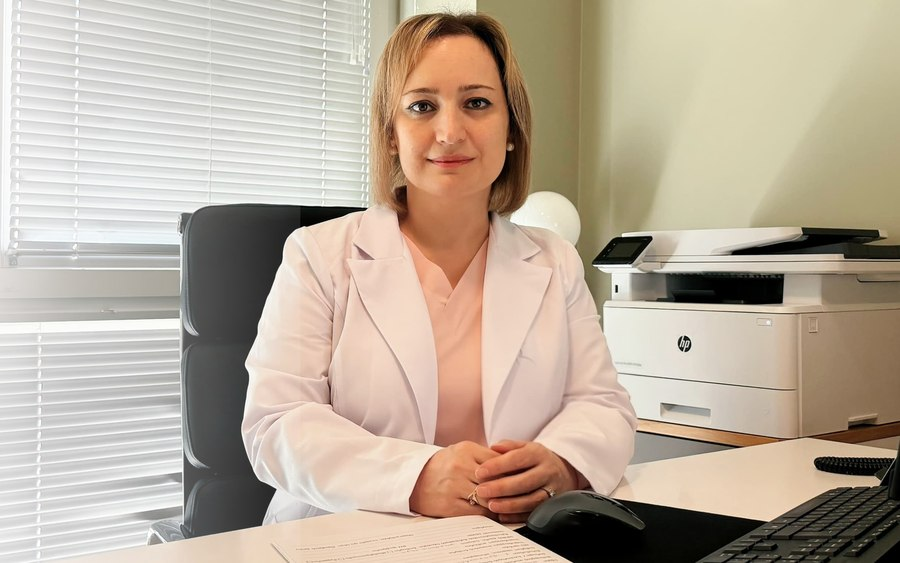
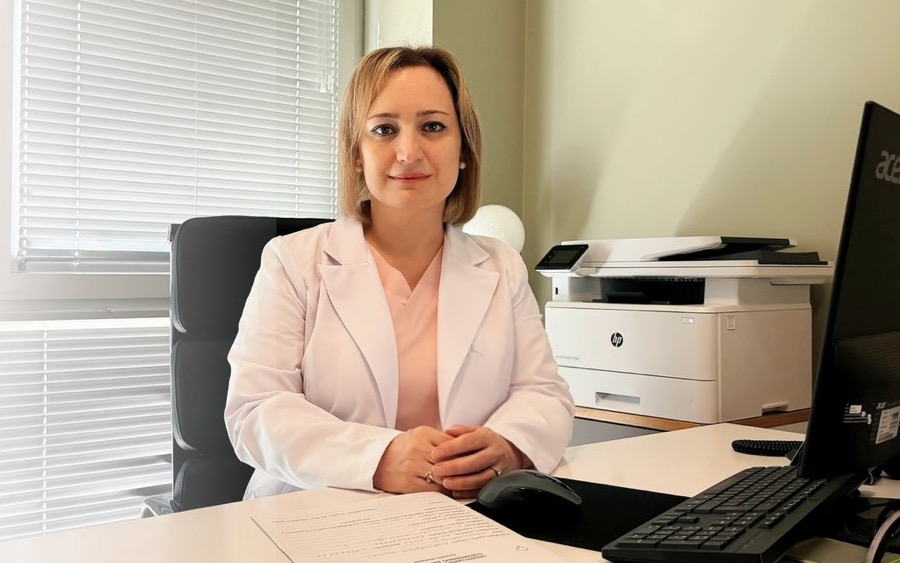
hello world

diff --git a/article-pcos.html b/article-pcos.html
@@ -26,7 +26,7 @@
 <link rel="preconnect" href="https://fonts.gstatic.com" crossorigin>
 <link href="https://fonts.googleapis.com/css2?family=Noto+Serif+Georgian:wght@400..700&family=Noto+Sans+Georgian:wght@400..700&display=swap" rel="stylesheet">
 
-<link rel="stylesheet" href="css/style.css?v=13">
+<link rel="stylesheet" href="css/style.css?v=16">
 <link rel="icon" type="image/jpeg" href="assets/img/logo-160.jpg">
 <link rel="apple-touch-icon" href="assets/img/logo-320.jpg">
 </head>
@@ -107,7 +107,7 @@
 
     <div class="post__byline">
       <span class="post__avatar" aria-hidden="true">
-        <img src="assets/img/art-pcos-avatar.jpg" width="200" height="200" alt="">
+        <img src="assets/img/president-avatar.jpg" width="320" height="320" alt="">
       </span>
       <div>
         <p class="post__author">პროფ. ელენე ასანიძე</p>
@@ -142,43 +142,44 @@
       </p>
 
       <p>
-        სპეციალისტები აღნიშნავენ, რომ პოლიცისტური საკვერცხის სინდრომის დიაგნოზი
-        მოზარდებში ერთ-ერთი ყველაზე რთული კლინიკური გამოწვევაა. ნაჩქარევმა
-        დიაგნოზმა შეიძლება გამოიწვიოს ჰიპერდიაგნოსტიკა და არასაჭირო მკურნალობა,
-        ხოლო დაგვიანებულმა შეფასებამ — სიმპტომებისა და მეტაბოლური რისკების
-        მართვის გადავადება.
+        სპეციალისტები აღნიშნავენ, რომ პოლიცისტური საკვერცხის სინდრომის
+        დიაგნოზი მოზარდებში ერთ-ერთი ყველაზე რთული კლინიკური გამოწვევაა.
+        ნაჩქარევმა დიაგნოზმა შეიძლება გამოიწვიოს ჰიპერდიაგნოსტიკა და არასაჭირო
+        მკურნალობა, ხოლო დაგვიანებულმა შეფასებამ — სიმპტომებისა და
+        მეტაბოლური რისკების მართვის გადავადება.
       </p>
 
       <p>
-        ამ მნიშვნელოვან თემაზე გვესაუბრება პროფესორი ელენე ასანიძე,
-        მედიცინის დოქტორი, ბავშვთა და მოზარდთა გინეკოლოგი, მეან-გინეკოლოგი.
+        ამ მნიშვნელოვან თემაზე გვესაუბრება პროფესორი ელენე ასანიძე, მედიცინის
+        დოქტორი, მეან-გინეკოლოგი, ბავშვთა და მოზარდთა გინეკოლოგი.
       </p>
 
-      <h2 class="post__q">ქალბატონო ელენე, 2026 წელს პოლიცისტური საკვერცხის სინდრომისთვის ახალი საერთაშორისო სახელწოდება გამოცხადდა. რას უკავშირდება ეს ცვლილება და რატომ გახდა ის საჭირო?</h2>
+      <h2 class="post__q">2026 წელს პოლიცისტური საკვერცხის სინდრომისთვის ახალი საერთაშორისო სახელწოდება — პოლიენდოკრინული მეტაბოლური საკვერცხეების სინდრომი იქნა შეთავაზებული. რას უკავშირდება ეს ცვლილება და რატომ გახდა ის საჭირო?</h2>
 
-      <p>პოლიცისტური საკვერცხის სინდრომი (პსს) მხოლოდ გინეკოლოგიური პათოლოგია არ არის. ის წარმოადგენს კომპლექსურ, მრავალსისტემურ ენდოკრინულ-მეტაბოლურ მდგომარეობას, რომელიც გავლენას ახდენს არა მხოლოდ რეპროდუქციულ, არამედ მეტაბოლურ, გულ-სისხლძარღვთა და ფსიქოემოციურ ჯანმრთელობაზეც. სწორედ ამიტომ, 2026 წელს საერთაშორისო ექსპერტთა კონსენსუსის საფუძველზე შემოთავაზებული იქნა ახალი სახელწოდება — პოლიენდოკრინულ-მეტაბოლური საკვერცხის სინდრომი (პმსს).</p>
+      <p>პოლიცისტური საკვერცხის სინდრომი (პსს) მხოლოდ გინეკოლოგიური პათოლოგია არ არის. ის წარმოადგენს კომპლექსურ, მრავალსისტემურ ენდოკრინულ-მეტაბოლურ მდგომარეობას, რომელიც გავლენას ახდენს არა მხოლოდ რეპროდუქციულ, არამედ მეტაბოლურ, გულ-სისხლძარღვთა და ფსიქოემოციურ ჯანმრთელობაზეც. სწორედ ამიტომ, 2026 წელს საერთაშორისო ექსპერტთა კონსენსუსის საფუძველზე შემოთავაზებული იქნა ახალი სახელწოდება — პოლიენდოკრინული მეტაბოლური საკვერცხის სინდრომი (პმსს).</p>
 
       <p>ახალი სახელწოდება უკეთ ასახავს ამ მდგომარეობის მრავალსისტემურ ბუნებას და ხაზს უსვამს, რომ მისი არსი მხოლოდ საკვერცხეების ცვლილებებით არ შემოიფარგლება. ძველი სახელწოდება ხშირად ქმნიდა შთაბეჭდილებას, თითქოს პრობლემა მხოლოდ საკვერცხეებში არსებულ „კისტებს“ უკავშირდებოდა, მაშინ როცა მდგომარეობა ჰორმონულ და მეტაბოლურ პროცესებს მოიცავს. ახალი ტერმინის დანერგვა ეტაპობრივად მოხდება და მისი სრული ინტეგრაცია 2028 წლის საერთაშორისო გაიდლაინის განახლებასთან არის დაკავშირებული; გარდამავალ პერიოდში კი ორივე ტერმინის გამოყენება შესაძლებელია.</p>
 
-      <h2 class="post__q">რატომ არის რთული ამ მდგომარეობის დიაგნოსტიკა განსაკუთრებით მოზარდებში?</h2>
+      <h2 class="post__q">რატომ არის მისი დიაგნოსტიკა განსაკუთრებით რთული მოზარდებში და რაში მდგომარეობს მთავარი კლინიკური სირთულე ამ ასაკობრივ ჯგუფში?</h2>
 
-      <p>მოზარდობის ასაკში პმსს-ის დიაგნოსტიკა განსაკუთრებულ სიფრთხილეს მოითხოვს, რადგან ხშირად რთულია პუბერტატის ფიზიოლოგიური ცვლილებებისა და პმსს-ის კლინიკური გამოვლინებების ერთმანეთისგან გამიჯვნა. არარეგულარული მენსტრუალური ციკლი, აკნე და ულტრაბგერითი (უბგ) კვლევით გამოვლენილი საკვერცხეების პოლიცისტური მორფოლოგია ხშირად სრულიად ნორმალური მოვლენაა მოზარდობის პერიოდში და თავისთავად პმსს-ის არსებობას არ ადასტურებს. სწორედ ამიტომ დიაგნოზი მხოლოდ მკაფიო კრიტერიუმებზე დაყრდნობით უნდა დაისვას.</p>
+      <p>მოზარდებში პსს-ის დიაგნოსტიკა განსხვავდება რეპროდუქციული ასაკის ქალებში დიაგნოსტიკისგან და განსაკუთრებულ სიფრთხილეს მოითხოვს. მთავარი კლინიკური სირთულე პუბერტატის ფიზიოლოგიური ცვლილებებისა და პსს-ის კლინიკური გამოვლინებების ერთმანეთისგან გამიჯვნაა.</p>
 
-      <h2 class="post__q">რა კრიტერიუმებით ისმება დღეს პსს-ის დიაგნოზი მოზარდებში?</h2>
+      <p>არარეგულარული მენსტრუალური ციკლი, აკნე და ულტრაბგერითი კვლევით გამოვლენილი საკვერცხეების პოლიცისტური მორფოლოგია მოზარდობის პერიოდში ხშირად ფიზიოლოგიური პუბერტატის გამოვლინებაა, თუმცა მსგავსი ნიშნები შესაძლოა პსს ახასიათებდეს. სწორედ ამიტომ არსებობს როგორც ჰიპერდიაგნოსტიკის, ისე დიაგნოზის დაგვიანების რისკი.</p>
+
+      <p>ამდენად, მოზარდებში პსს-ის დიაგნოზი უნდა ეფუძნებოდეს მკაფიო, ასაკის შესაბამის კრიტერიუმებს.</p>
+
+      <h2 class="post__q">რა კრიტერიუმებს უნდა დაეყრდნოს დღეს ექიმი მოზარდებში პსს-ის დიაგნოზის დასმისას და რომელი მდგომარეობების გამორიცხვაა აუცილებელი დიფერენციალური დიაგნოსტიკის პროცესში?</h2>
 
       <p>2023 წლის საერთაშორისო მტკიცებულებებზე დაფუძნებული რეკომენდაციების მიხედვით, მოზარდებში პსს-ის დიაგნოზი უნდა დაისვას მხოლოდ მაშინ, როდესაც ერთდროულად არსებობს ორი აუცილებელი კრიტერიუმი:</p>
 
-      <ul class='post__list'><li>მენსტრუალური ციკლის დარღვევა/ოვულატორული დისფუნქცია, რომელიც შეფასებულია გოგონას ასაკისა და მენარქიდან გასული დროის გათვალისწინებით;</li><li>კლინიკური და/ან ბიოქიმიური ჰიპერანდროგენიზმი.</li></ul>
+      <ul class="post__list">
+        <li>მენსტრუალური ციკლის დარღვევა/ოვულატორული დისფუნქცია, რომელიც შეფასებულია გოგონას ასაკისა და მენარქიდან გასული დროის გათვალისწინებით;</li>
+        <li>კლინიკური და/ან ბიოქიმიური ჰიპერანდროგენიზმი.</li>
+      </ul>
 
       <p>დიაგნოზის დასმამდე აუცილებელია გამოირიცხოს სხვა მდგომარეობები, რომლებიც შეიძლება იწვევდეს მენსტრუალური ციკლის დარღვევას ან ჰიპერანდროგენიზმს, მათ შორის ფარისებრი ჯირკვლის დარღვევები, ჰიპერპროლაქტინემია, თირკმელზედა ჯირკვლის არაკლასიკური თანდაყოლილი ჰიპერპლაზია, კუშინგის სინდრომი და ანდროგენების მაპროდუცირებელი სიმსივნეები.</p>
 
-      <h2 class="post__q">ხშირად მშობლებს აინტერესებთ, როდის ითვლება არარეგულარული მენსტრუალური ციკლი ნორმად და როდის საჭიროებს დამატებით შეფასებას მოზარდებში?</h2>
-
-      <p>ეს ერთ-ერთი ყველაზე გავრცელებული კითხვაა. მენარქის, ანუ პირველი მენსტრუაციის შემდეგ ჰორმონული რეგულაციის სისტემა ჯერ კიდევ ჩამოყალიბების პროცესშია. ამიტომ პირველ წლებში მენსტრუალური ციკლის არარეგულარულობა ხშირად ფიზიოლოგიურია და პუბერტატის პერიოდისთვის დამახასიათებელ მოვლენად ითვლება. მენარქიდან 1-3 წლის პერიოდში 21–45-დღიანი ინტერვალი, როგორც წესი, დასაშვებია, ხოლო 21 დღეზე ნაკლები ან 45 დღეზე მეტი ინტერვალი დამატებით შეფასებას საჭიროებს. მენარქიდან 3 წლის შემდეგ ციკლი, ჩვეულებრივ, 21–35 დღის ფარგლებში რეგულირდება, ამ პერიოდში 21 დღეზე ნაკლები ან 35 დღეზე მეტი ინტერვალი, ასევე წელიწადში 8-ზე ნაკლები ციკლი, საყურადღებოა. მენარქიდან ერთი წლის შემდეგ 90 დღეზე ხანგრძლივი ინტერვალი ნებისმიერ შემთხვევაში დამატებით შეფასებას მოითხოვს.</p>
-
-      <p>მოზარდობის პერიოდში რეპროდუქციული სისტემა ჯერ კიდევ მომწიფების პროცესშია, სწორედ ამიტომ ციკლის შეფასება ყოველთვის უნდა მოხდეს ასაკისა და მენარქიდან გასული დროის მიხედვით და არა მხოლოდ ზრდასრულთა კრიტერიუმებით.</p>
-
-      <h2 class="post__q">როგორ შეიძლება მშობელმა ან თავად მოზარდმა ეჭვი მიიტანოს ჰიპერანდროგენიზმზე?</h2>
+      <h2 class="post__q">ქალბატონო ელენე, თქვენ ჰიპერანდროგენიზმი ახსენეთ, როგორც ერთ-ერთი მნიშვნელოვანი დიაგნოსტიკური კრიტერიუმი. იქნებ განგვიმარტოთ, რას ნიშნავს ჰიპერანდროგენიზმი და რა კლინიკურ გამოვლინებებს უნდა მიაქციონ ყურადღება მშობელმა ან თავად მოზარდმა?</h2>
 
       <p>ჰიპერანდროგენიზმი არის მდგომარეობა, როდესაც გოგონას ან ქალის ორგანიზმში ანდროგენების, ე.წ. მამაკაცური ჰორმონების, გავლენა მომატებულია. ანდროგენები ქალის ორგანიზმშიც ბუნებრივად არსებობს, მაგრამ როცა მათი დონე ჭარბია, შეიძლება სხვადასხვა სიმპტომი გამოიწვიოს.</p>
 
@@ -186,41 +187,61 @@
 
       <p>ბიოქიმიური ჰიპერანდროგენიზმი გულისხმობს სისხლში ანდროგენების მომატებულ დონეს, რომელიც უნდა დადასტურდეს შესაბამისი ლაბორატორიული კვლევებით.</p>
 
-      <h2 class="post__q">ზრდასრულ ქალებში პსს-ის დიაგნოსტიკისას ულტრაბგერით გამოვლენილი საკვერცხეების პოლიცისტური მორფოლოგია ერთ-ერთ დიაგნოსტიკურ კრიტერიუმად განიხილება. აქვს თუ არა იგივე მნიშვნელობა ამ კვლევას მოზარდებში?</h2>
+      <h2 class="post__q">მშობლებს ხშირად აინტერესებთ, როდის შეიძლება არარეგულარული მენსტრუალური ციკლი მოზარდობისთვის ფიზიოლოგიურ მოვლენად ჩაითვალოს და როდის არის უკვე საჭირო დამატებითი შეფასება?</h2>
 
-      <p>რეპროდუქციული ასაკის ქალებისგან განსხვავებით, მოზარდებში უბგ კვლევით გამოვლენილი პოლიცისტური საკვერცხეების მორფოლოგია და ანტიმიულერული ჰორმონის განსაზღვრა პმსს-ის დიაგნოსტიკურ კრიტერიუმად არ გამოიყენება.</p>
+      <p>ეს ერთ-ერთი ყველაზე გავრცელებული კითხვაა.</p>
+
+      <p>მოზარდობის პერიოდში რეპროდუქციული სისტემა ჯერ კიდევ მომწიფების პროცესშია, სწორედ ამიტომ ციკლის შეფასება ყოველთვის უნდა მოხდეს ასაკისა და მენარქიდან გასული დროის მიხედვით.</p>
+
+      <p>მენარქის, ანუ პირველი მენსტრუაციის შემდეგ, პირველ წელს ციკლის არარეგულარულობა ხშირად ფიზიოლოგიურია და პუბერტატული პერიოდისთვის დამახასიათებელ მოვლენად ითვლება. მენარქიდან ერთიდან სამ წლამდე პერიოდში ციკლებს შორის 21–45-დღიანი ინტერვალი, როგორც წესი, დასაშვებია, ხოლო 21 დღეზე ნაკლები ან 45 დღეზე მეტი ინტერვალი დამატებით შეფასებას საჭიროებს.</p>
+
+      <p>მენარქიდან სამი წლის შემდეგ ციკლი, ჩვეულებრივ, 21–35 დღის ფარგლებში რეგულირდება. ამ პერიოდში საყურადღებოა 21 დღეზე ნაკლები ან 35 დღეზე მეტი ინტერვალი, ასევე წელიწადში რვაზე ნაკლები მენსტრუალური ციკლი.</p>
+
+      <p>ამასთან, მენარქიდან ერთი წლის შემდეგ ციკლებს შორის 90 დღეზე ხანგრძლივი ინტერვალი, თუნდაც მხოლოდ ერთხელ დაფიქსირდეს, დამატებით შეფასებას მოითხოვს.</p>
+
+      <p>ექიმთან მიმართვა განსაკუთრებით მნიშვნელოვანია, თუ ციკლის დარღვევას თან ახლავს ჭარბთმიანობა, გამოხატული აკნე, წონის მნიშვნელოვანი ცვლილება ან სხვა სიმპტომები, რომლებიც შესაძლოა პოლიცისტური საკვერცხეების სინდრომზე მიუთითებდეს. ამრიგად, მენარქის შემდგომ პერიოდში გარკვეული არარეგულარულობა მოსალოდნელია, თუმცა ასაკისთვის შეუსაბამო ციკლის სიხშირე და ხანგრძლივი ინტერვალები მხოლოდ „მოზარდობის თავისებურებად“ არ უნდა ჩაითვალოს. დროული შეფასება დარღვევის ადრეულ გამოვლენასა და სწორ მართვას უზრუნველყოფს.</p>
+
+      <h2 class="post__q">ზრდასრულ ქალებში პსს-ის დიაგნოსტიკისას ულტრაბგერით (უბგ) გამოვლენილი საკვერცხეების პოლიცისტური მორფოლოგია ერთ-ერთ დიაგნოსტიკურ კრიტერიუმად განიხილება. აქვს თუ არა იგივე მნიშვნელობა ამ კვლევას მოზარდებში?</h2>
+
+      <p>რეპროდუქციული ასაკის ქალებისგან განსხვავებით, მოზარდებში უბგ კვლევით გამოვლენილი პოლიცისტური საკვერცხეების მორფოლოგია და ანტიმიულერული ჰორმონის განსაზღვრა პსს-ის დიაგნოსტიკურ კრიტერიუმად არ გამოიყენება.</p>
 
       <p>ამის მიზეზია ის, რომ პუბერტატის პერიოდში მრავალ ჯანმრთელ მოზარდს შეიძლება აღენიშნებოდეს საკვერცხეების პოლიცისტური მორფოლოგია და ანტიმიულერული ჰორმონის ფიზიოლოგიურად შედარებით მაღალი დონე. შესაბამისად, ამ კვლევებზე დიაგნოზის დასმის მიზნით დაყრდნობამ შეიძლება მნიშვნელოვნად გაზარდოს ჰიპერდიაგნოსტიკის რისკი.</p>
 
-      <p>მოქმედი რეკომენდაციების მიხედვით, მენარქიდან 8 წლამდე საკვერცხეების პოლიცისტური მორფოლოგია უბგ კვლევით და ანტიმიულერული ჰორმონი პსს/პმსს-ის დიაგნოსტიკისთვის არ უნდა იქნას გამოყენებული, რადგან ამ ასაკობრივ პერიოდში მათი მაჩვენებლები ხშირად ფიზიოლოგიურ თავისებურებებს ასახავს და არა აუცილებლად პათოლოგიას.</p>
+      <p>მოქმედი რეკომენდაციების მიხედვით, მენარქიდან 8 წლამდე საკვერცხეების პოლიცისტური მორფოლოგია უბგ კვლევით და ანტიმიულერული ჰორმონი პსს-ის დიაგნოსტიკისთვის არ უნდა იქნას გამოყენებული, რადგან ამ ასაკობრივ პერიოდში მათი მაჩვენებლები ხშირად ფიზიოლოგიურ თავისებურებებს ასახავს და არა აუცილებლად პათოლოგიას.</p>
 
       <h2 class="post__q">ხშირად მიიჩნევა, რომ პსს ავტომატურად ინსულინრეზისტენტობას ნიშნავს. რამდენად სწორია ეს შეხედულება და რეკომენდებულია თუ არა რუტინული სკრინინგი?</h2>
 
-      <p>ინსულინრეზისტენტობა პმსს-ის მნიშვნელოვანი მეტაბოლური კომპონენტია, თუმცა დიაგნოსტიკურ კრიტერიუმს არ წარმოადგენს და ყველა მოზარდს არ აღენიშნება. პუბერტატის პერიოდში ინსულინის მიმართ მგრძნობელობა ფიზიოლოგიურადაც მცირდება, ამიტომ ინსულინის დონის ან ინსულინრეზისტენტობის ინდექსის (HOMA-IR) რუტინული განსაზღვრა დიაგნოზის დასადასტურებლად რეკომენდებული არ არის. თუმცა მეტაბოლური შეფასების საჭიროება ინდივიდუალურად განისაზღვრება. განსაკუთრებით მნიშვნელოვანია გლიკემიური სტატუსის შეფასება ჭარბი წონის ან სიმსუქნის, აკანტოზის, ოჯახური ანამნეზის ან სხვა კარდიომეტაბოლური რისკ-ფაქტორების არსებობისას.</p>
+      <p>ინსულინრეზისტენტობა პმსს-ის მნიშვნელოვანი მეტაბოლური კომპონენტია, თუმცა ის დიაგნოსტიკურ კრიტერიუმს არ წარმოადგენს და ყველა მოზარდს არ აღენიშნება. პუბერტატის პერიოდში ინსულინის მიმართ მგრძნობელობა ფიზიოლოგიურადაც მცირდება, ამიტომ ინსულინის დონის ან ინსულინრეზისტენტობის ინდექსის (HOMA-IR) რუტინული განსაზღვრა პსს-ის დიაგნოზის დასადასტურებლად რეკომენდებული არ არის.</p>
 
-      <h2 class="post__q">როგორ უნდა ავიცილოთ თავიდან როგორც ჰიპერდიაგნოსტიკა, ისე დაგვიანებული დიაგნოზი?</h2>
+      <p>ამისგან განსხვავებით, პსს-ის დიაგნოზის დროს გლიკემიური სტატუსის შეფასება რეკომენდებულია ყველა მოზარდში, სხეულის მასის ინდექსის მიუხედავად. შეფასება განსაკუთრებით მნიშვნელოვანია ჭარბი წონის ან სიმსუქნის, შაქრიანი დიაბეტის ოჯახური ანამნეზისა და სხვა კარდიომეტაბოლური რისკ-ფაქტორების არსებობისას. ყველაზე ზუსტ მეთოდად მიიჩნევა გლუკოზისადმი ტოლერანტობის ორალური ტესტი.</p>
+
+      <h2 class="post__q">კლინიკურ პრაქტიკაში როგორ ვიპოვოთ სწორი ბალანსი, რომ ერთი მხრივ თავიდან ავიცილოთ ჰიპერდიაგნოსტიკა და, მეორე მხრივ, არ დაგვიანდეს პსს-ის დროული გამოვლენა და მეთვალყურეობა?</h2>
 
       <p>თუ მოზარდი ჯერ არ აკმაყოფილებს პმსს-ის სრულ დიაგნოსტიკურ კრიტერიუმებს, მაგრამ აქვს გარკვეული კლინიკური ნიშნები, ასეთ შემთხვევებში გამოიყენება ტერმინი „პსს-ის განვითარების მომატებული რისკი“. ამ სტატუსის მქონე მოზარდებში მნიშვნელოვანია დინამიური მეთვალყურეობა: ციკლის, ჰიპერანდროგენიზმის ნიშნებისა და გლუკოზის ცვლის პერიოდული შეფასება.</p>
 
       <h2 class="post__q">თუ მოზარდს პსს-ის დიაგნოზი დაუდასტურდა, როგორ იგეგმება მართვა და როდის განიხილება მედიკამენტური მკურნალობა?</h2>
 
-      <p>პმსს-ის მართვა პერსონალიზირებული მიდგომით იგეგმება და დამოკიდებულია კლინიკურ გამოვლინებებზე, სიმპტომების სიმძიმეზე, ასაკზე, ცხოვრების ხარისხსა და კარდიომეტაბოლურ პროფილზე. დიაგნოზის დადასტურება თავისთავად არ ნიშნავს, რომ მოზარდს აუცილებლად მედიკამენტური მკურნალობა სჭირდება.</p>
+      <p>პსს-ის მართვა ინდივიდუალურად იგეგმება და დამოკიდებულია იმაზე, თუ რომელი კლინიკური გამოვლინება დომინირებს. გათვალისწინებული უნდა იყოს სიმპტომების სიმძიმე, მოზარდის ასაკი, მენარქიდან გასული დრო, სხეულის მასა, ცხოვრების ხარისხი და თავად მოზარდის პრიორიტეტები. შესაბამისად, დიაგნოზის დადასტურება ავტომატურად მედიკამენტური მკურნალობის დაწყებას არ ნიშნავს.</p>
 
-      <p>მნიშვნელოვანია პმსს-ის კლინიკური ფენოტიპის განსაზღვრაც, რადგან შესაძლოა განსხვავებული კლინიკური გამოვლინებები ჭარბობდეს, მათ შორის მენსტრუალური ციკლის დარღვევა, ჰიპერანდროგენიზმი, მეტაბოლური ცვლილებები ან მათი კომბინაცია. ფენოტიპის შეფასება ექიმს ეხმარება მკურნალობის ძირითადი მიზნის განსაზღვრასა და მართვის ტაქტიკის ინდივიდუალურად შერჩევაში.</p>
+      <p>მნიშვნელოვანია პსს-ის ფენოტიპის შეფასება, რადგან ეს ექიმს მკურნალობის ძირითადი მიზნების განსაზღვრასა და მართვის ტაქტიკის ინდივიდუალურად შერჩევაში ეხმარება.</p>
 
-      <p>პირველი ნაბიჯი ცხოვრების ჯანსაღი წესის მხარდაჭერაა, რაც გულისხმობს სრულფასოვან კვებას, რეგულარულ ფიზიკურ აქტივობას და ადეკვატურ ძილს. ეს რეკომენდებულია ყველა მოზარდისთვის, სხეულის მასის მიუხედავად. ჭარბი წონის შემთხვევაში სხეულის მასის ჯანსაღი და ეტაპობრივი მართვა ხშირად აუმჯობესებს მენსტრუალურ ფუნქციას, მეტაბოლურ მაჩვენებლებსა და ჰიპერანდროგენიზმის სიმპტომებს. თუმცა პმსს გვხვდება ნორმალური სხეულის მასის მქონე მოზარდებშიც, ამიტომ ეს მდგომარეობა მხოლოდ წონასთან არ არის დაკავშირებული.</p>
+      <p>მართვის საფუძველია ცხოვრების ჯანსაღი წესის მხარდაჭერა, რაც მოიცავს სრულფასოვან კვებას, რეგულარულ ფიზიკურ აქტივობასა და ადეკვატურ ძილს. ეს რეკომენდაციები ყველა მოზარდს ეხება, სხეულის მასის მიუხედავად. ჭარბი წონის ან სიმსუქნის შემთხვევაში სხეულის მასის ეტაპობრივი და ჯანსაღი მართვა ხშირად აუმჯობესებს მენსტრუალურ ფუნქციასა და მეტაბოლურ მაჩვენებლებს, ასევე ამცირებს ჰიპერანდროგენიზმის გამოვლინებებს.</p>
 
-      <p>მედიკამენტური მკურნალობის საჭიროება განისაზღვრება კლინიკური სურათის მიხედვით. მენსტრუალური ციკლის დარღვევისა და ჰიპერანდროგენიზმის დროს ექიმმა შეიძლება განიხილოს კომბინირებული ჰორმონული კონტრაცეპტივების დანიშვნა. მეტფორმინის დანიშვნა განიხილება ინდივიდუალურად, განსაკუთრებით გლუკოზის ცვლის დარღვევის ან ჭარბი წონის/სიმსუქნის არსებობისას. ანტიანდროგენები კი გამოიყენება მხოლოდ სპეციალისტის მეთვალყურეობით, ეფექტური კონტრაცეფციის ფონზე, როდესაც ჰირსუტიზმი ან სხვა ჰიპერანდროგენული სიმპტომები საკმარისად არ კონტროლდება.</p>
+      <p>მედიკამენტური მკურნალობა განიხილება მაშინ, როდესაც სიმპტომები გამოხატულია, გავლენას ახდენს მოზარდის ფიზიკურ ან ფსიქოემოციურ მდგომარეობაზე და მხოლოდ ცხოვრების წესის ცვლილებით საკმარისად არ კონტროლდება. მენსტრუალური ციკლის დარღვევის, აკნესა და ჰირსუტიზმის მართვისთვის შესაძლებელია დაბალდოზიანი კომბინირებული ჰორმონული კონტრაცეპტივის გამოყენება, უკუჩვენებების წინასწარი შეფასების შემდეგ. ინსულინის მიმართ მგრძნობელობის გასაუმჯობესებელი პრეპარატების, უპირველესად მეტფორმინის, დანიშვნა ინდივიდუალურად განიხილება.</p>
 
-      <h2 class="post__q">შესაძლებელია თუ არა პსს-ის სრულად განკურნება?</h2>
+      <p>ანტიანდროგენული მკურნალობა შეიძლება დაემატოს მხოლოდ სპეციალისტის მეთვალყურეობითა და ეფექტური კონტრაცეფციის ფონზე, თუ სულ მცირე ექვსთვიანი ჰორმონული და კოსმეტიკური მკურნალობის მიუხედავად ჰირსუტიზმი კვლავ კლინიკურად მნიშვნელოვანი რჩება.</p>
 
-      <p>პმსს ქრონიკული მდგომარეობაა, თუმცა თანამედროვე მიდგომებით შესაძლებელია სიმპტომების ეფექტური კონტროლი, მენსტრუალური ფუნქციის გაუმჯობესება, მეტაბოლური რისკების შემცირება და ცხოვრების ხარისხის მნიშვნელოვნად გაუმჯობესება.</p>
+      <p>ამრიგად, მკურნალობის მიზანი მხოლოდ მენსტრუალური ციკლის რეგულირება არ არის. ის ასევე მოიცავს ჰიპერანდროგენული სიმპტომების შემცირებას, მეტაბოლური რისკების მართვასა და მოზარდის ცხოვრების ხარისხის გაუმჯობესებას.</p>
+
+      <h2 class="post__q">შესაძლებელია თუ არა პსს-ის საბოლოოდ განკურნება?</h2>
+
+      <p>პსს ქრონიკული მდგომარეობაა და ხანგრძლივ, ინდივიდუალურად მორგებულ მართვას მოითხოვს. მიუხედავად იმისა, რომ მისი საბოლოოდ განკურნება ყოველთვის შესაძლებელი არ არის, თანამედროვე მიდგომებით შესაძლებელია სიმპტომების ეფექტური კონტროლი, მენსტრუალური ფუნქციის გაუმჯობესება, მეტაბოლური და რეპროდუქციული რისკების შემცირება და ცხოვრების ხარისხის მნიშვნელოვნად გაუმჯობესება.</p>
 
       <!-- მთავარი გზავნილი -->
       <aside class="post__note">
         <h2 class="post__note-title">მთავარი გზავნილი</h2>
         <p>
-          პმსს ქრონიკული ენდოკრინულ-მეტაბოლური მდგომარეობაა, რომელიც საჭიროებს
+          პსს ქრონიკული ენდოკრინულ-მეტაბოლური მდგომარეობაა, რომელიც საჭიროებს
           მთელი ცხოვრების განმავლობაში პერიოდულ შეფასებასა და ინდივიდუალურად
           დაგეგმილ მართვას. ზუსტი დიაგნოსტიკა და დროული ჩარევა საშუალებას იძლევა
           გაუმჯობესდეს პაციენტის რეპროდუქციული, ენდოკრინული და მეტაბოლური

diff --git a/category-children.html b/category-children.html
@@ -12,7 +12,7 @@
 <link rel="preconnect" href="https://fonts.googleapis.com">
 <link rel="preconnect" href="https://fonts.gstatic.com" crossorigin>
 <link href="https://fonts.googleapis.com/css2?family=Noto+Serif+Georgian:wght@400..700&family=Noto+Sans+Georgian:wght@400..700&display=swap" rel="stylesheet">
-<link rel="stylesheet" href="css/style.css?v=13">
+<link rel="stylesheet" href="css/style.css?v=16">
 <link rel="icon" type="image/jpeg" href="assets/img/logo-160.jpg">
 <link rel="apple-touch-icon" href="assets/img/logo-320.jpg">
 </head>
@@ -103,7 +103,7 @@
             <img src="assets/img/art-pcos-thumb.jpg" width="900" height="563"
                  alt="პროფესორი ელენე ასანიძე სამუშაო კაბინეტში"
                  loading="lazy" decoding="async">
-            <span class="art__tag">ექსპერტის ინტერვიუ</span>
+            <span class="art__tag">ექსპერტის<br>ინტერვიუ</span>
           </div>
 
           <div class="art__body">

diff --git a/about.html b/about.html
@@ -18,7 +18,7 @@
 <link rel="preconnect" href="https://fonts.gstatic.com" crossorigin>
 <link href="https://fonts.googleapis.com/css2?family=Noto+Serif+Georgian:wght@400..700&family=Noto+Sans+Georgian:wght@400..700&display=swap" rel="stylesheet">
 
-<link rel="stylesheet" href="css/style.css?v=13">
+<link rel="stylesheet" href="css/style.css?v=16">
 <link rel="icon" type="image/jpeg" href="assets/img/logo-160.jpg">
 <link rel="apple-touch-icon" href="assets/img/logo-320.jpg">
 </head>

diff --git a/ask.html b/ask.html
@@ -16,7 +16,7 @@
 <link rel="preconnect" href="https://fonts.gstatic.com" crossorigin>
 <link href="https://fonts.googleapis.com/css2?family=Noto+Serif+Georgian:wght@400..700&family=Noto+Sans+Georgian:wght@400..700&display=swap" rel="stylesheet">
 
-<link rel="stylesheet" href="css/style.css?v=13">
+<link rel="stylesheet" href="css/style.css?v=16">
 <link rel="icon" type="image/jpeg" href="assets/img/logo-160.jpg">
 <link rel="apple-touch-icon" href="assets/img/logo-320.jpg">
 </head>

diff --git a/index.html b/index.html
@@ -19,7 +19,7 @@
 <link rel="preconnect" href="https://fonts.gstatic.com" crossorigin>
 <link href="https://fonts.googleapis.com/css2?family=Noto+Serif+Georgian:wght@400..700&family=Noto+Sans+Georgian:wght@400..700&display=swap" rel="stylesheet">
 
-<link rel="stylesheet" href="css/style.css?v=13">
+<link rel="stylesheet" href="css/style.css?v=16">
 <link rel="icon" type="image/jpeg" href="assets/img/logo-160.jpg">
 <link rel="apple-touch-icon" href="assets/img/logo-320.jpg">
 </head>

diff --git a/questionarySECR.html b/questionarySECR.html
@@ -14,7 +14,7 @@
 <link rel="preconnect" href="https://fonts.gstatic.com" crossorigin>
 <link href="https://fonts.googleapis.com/css2?family=Noto+Serif+Georgian:wght@400..700&family=Noto+Sans+Georgian:wght@400..700&display=swap" rel="stylesheet">
 
-<link rel="stylesheet" href="css/style.css?v=13">
+<link rel="stylesheet" href="css/style.css?v=16">
 <link rel="icon" type="image/jpeg" href="assets/img/logo-160.jpg">
 </head>
 

diff --git a/css/style.css b/css/style.css
@@ -1757,12 +1757,13 @@ body.is-locked { overflow: hidden; }
 .art__tag {
   position: absolute;
   left: 14px; top: 14px;
-  padding: 6px 13px;
-  border-radius: 999px;
+  padding: 8px 14px;
+  border-radius: 12px;
   background: rgba(23,83,79,.92);
   color: #fff;
   font-size: .72rem;
   font-weight: 700;
+  line-height: 1.35;
   letter-spacing: .03em;
   backdrop-filter: blur(4px);
 }
